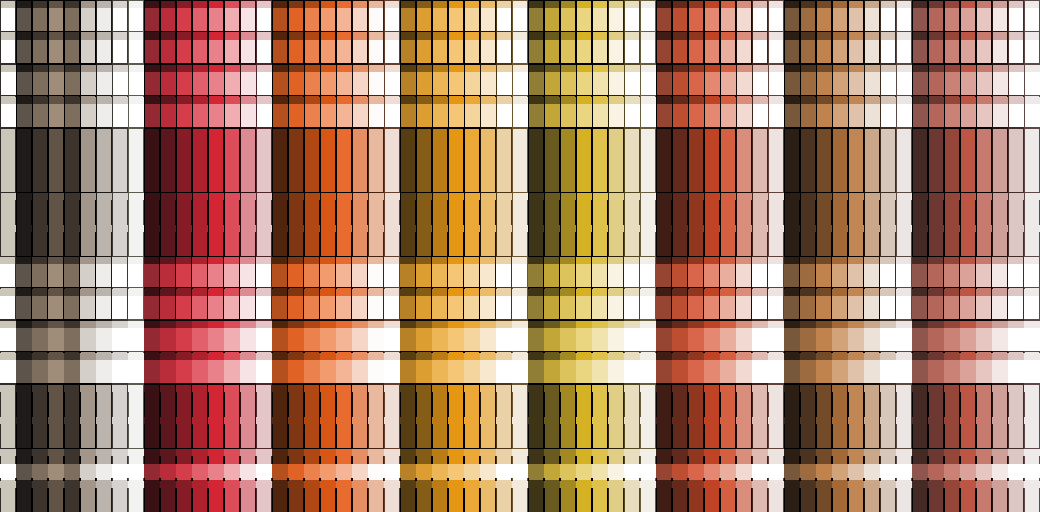
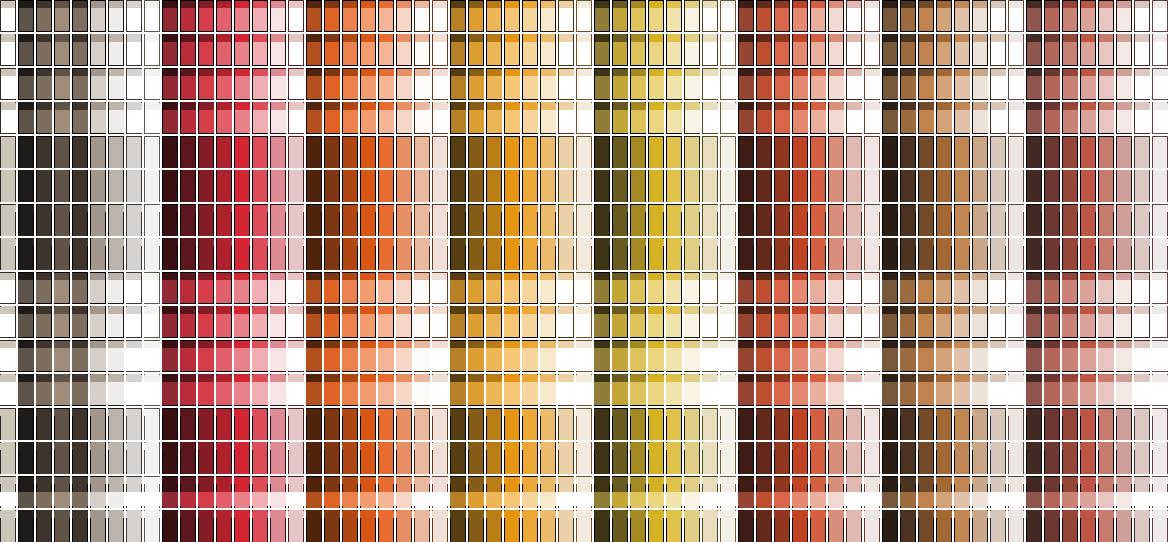
tiled: 2px gap between wall tiles in the Tilesets palette
Wall art runs edge-to-edge to its own tile boundary, so with zero gap
adjacent bitmask variants visually blend together in Tiled's Tilesets
panel, making it hard to tell which piece has a wall on which side.
Bakes a 2px transparent margin/spacing into the wall-*.png sheets (floor
stays at 0 — no directional-edge ambiguity there) and threads it through
the client's sheet slicer (tiledSheets.ts) so live rendering stays
pixel-identical. New shared WALL_TILE_SPACING constant keeps the bake
script and client loader from ever disagreeing on it. GID→(bitmask,
swatch) index math is untouched — spacing only changes pixel layout, not
tile identity, so no existing .tmj needs re-exporting.

diff --git a/client/src/net/tiledSheets.ts b/client/src/net/tiledSheets.ts
@@ -17,6 +17,7 @@ import {
   WALL_BITMASK_COUNT,
   WALL_SET_FILES,
   WALL_TILE_H,
+  WALL_TILE_SPACING,
   WALL_TILE_W,
 } from '@pixel/shared/office/tiledSheetLayout.js';
 import type { SpriteData } from '@pixel/shared/office/types.js';
@@ -38,8 +39,10 @@ async function fetchBitmap(url: string): Promise<ImageBitmap> {
 
 /** Slice one baked sheet into `rows` groups of TILED_SHEET_COLUMNS tiles
  *  each, tileW×tileH — mirrors bake-floor-wall-tiled.mts's composeSheet
- *  layout exactly (flat index i → col = i % columns, row = floor(i / columns)). */
-function sliceSheet(bitmap: ImageBitmap, tileW: number, tileH: number, rows: number): SpriteData[][] {
+ *  layout exactly (flat index i → col = i % columns, row = floor(i / columns)),
+ *  including its `spacing` transparent px between tiles (0 for floor sheets,
+ *  WALL_TILE_SPACING for wall sheets — see tiledSheetLayout.ts). */
+function sliceSheet(bitmap: ImageBitmap, tileW: number, tileH: number, rows: number, spacing = 0): SpriteData[][] {
   const canvas = document.createElement('canvas');
   canvas.width = bitmap.width;
   canvas.height = bitmap.height;
@@ -51,7 +54,7 @@ function sliceSheet(bitmap: ImageBitmap, tileW: number, tileH: number, rows: num
   for (let row = 0; row < rows; row++) {
     const group: SpriteData[] = [];
     for (let col = 0; col < TILED_SHEET_COLUMNS; col++) {
-      const { data } = ctx.getImageData(col * tileW, row * tileH, tileW, tileH);
+      const { data } = ctx.getImageData(col * (tileW + spacing), row * (tileH + spacing), tileW, tileH);
       const sprite: SpriteData = [];
       for (let y = 0; y < tileH; y++) {
         const line: string[] = [];
@@ -88,7 +91,7 @@ export async function loadTiledSheets(): Promise<void> {
     setFloorSheets(
       floorBitmaps.map((bitmap) => sliceSheet(bitmap, FLOOR_TILE_W, FLOOR_TILE_H, Math.round(bitmap.height / FLOOR_TILE_H))),
     );
-    setWallSheets(wallBitmaps.map((bitmap) => sliceSheet(bitmap, WALL_TILE_W, WALL_TILE_H, WALL_BITMASK_COUNT)));
+    setWallSheets(wallBitmaps.map((bitmap) => sliceSheet(bitmap, WALL_TILE_W, WALL_TILE_H, WALL_BITMASK_COUNT, WALL_TILE_SPACING)));
   } catch (err) {
     console.warn('[tiledSheets] failed to load baked floor/wall sheets:', err instanceof Error ? err.message : err);
   }

diff --git a/shared/src/office/tiledSheetLayout.ts b/shared/src/office/tiledSheetLayout.ts
@@ -17,6 +17,15 @@ export const FLOOR_TILE_H = TILE_SIZE;
 export const WALL_TILE_W = TILE_SIZE;
 export const WALL_TILE_H = 32;
 export const WALL_BITMASK_COUNT = 16;
+/** Transparent gap (px) baked between adjacent wall tiles in the sheet image
+ *  — wall art often runs edge-to-edge to its own tile boundary, so with zero
+ *  gap neighboring bitmask variants visually blend together in Tiled's
+ *  Tilesets panel. Purely a sheet-layout spacer: doesn't change which GID
+ *  maps to which (bitmask, swatch) — see rowAndSwatchFromLocalId — only
+ *  where that tile sits in pixels, which both the bake script and the
+ *  client's sheet slicer must agree on. Floor tiles don't have this
+ *  ambiguity (no directional edges to confuse), so they stay at 0 gap. */
+export const WALL_TILE_SPACING = 2;
 
 /** One entry per floor "set" — index = OfficeLayout.tileFloorSet, matching
  *  a <name>.tsj / png/<name>.png pair (server/scripts/bake-floor-wall-tiled.mts
